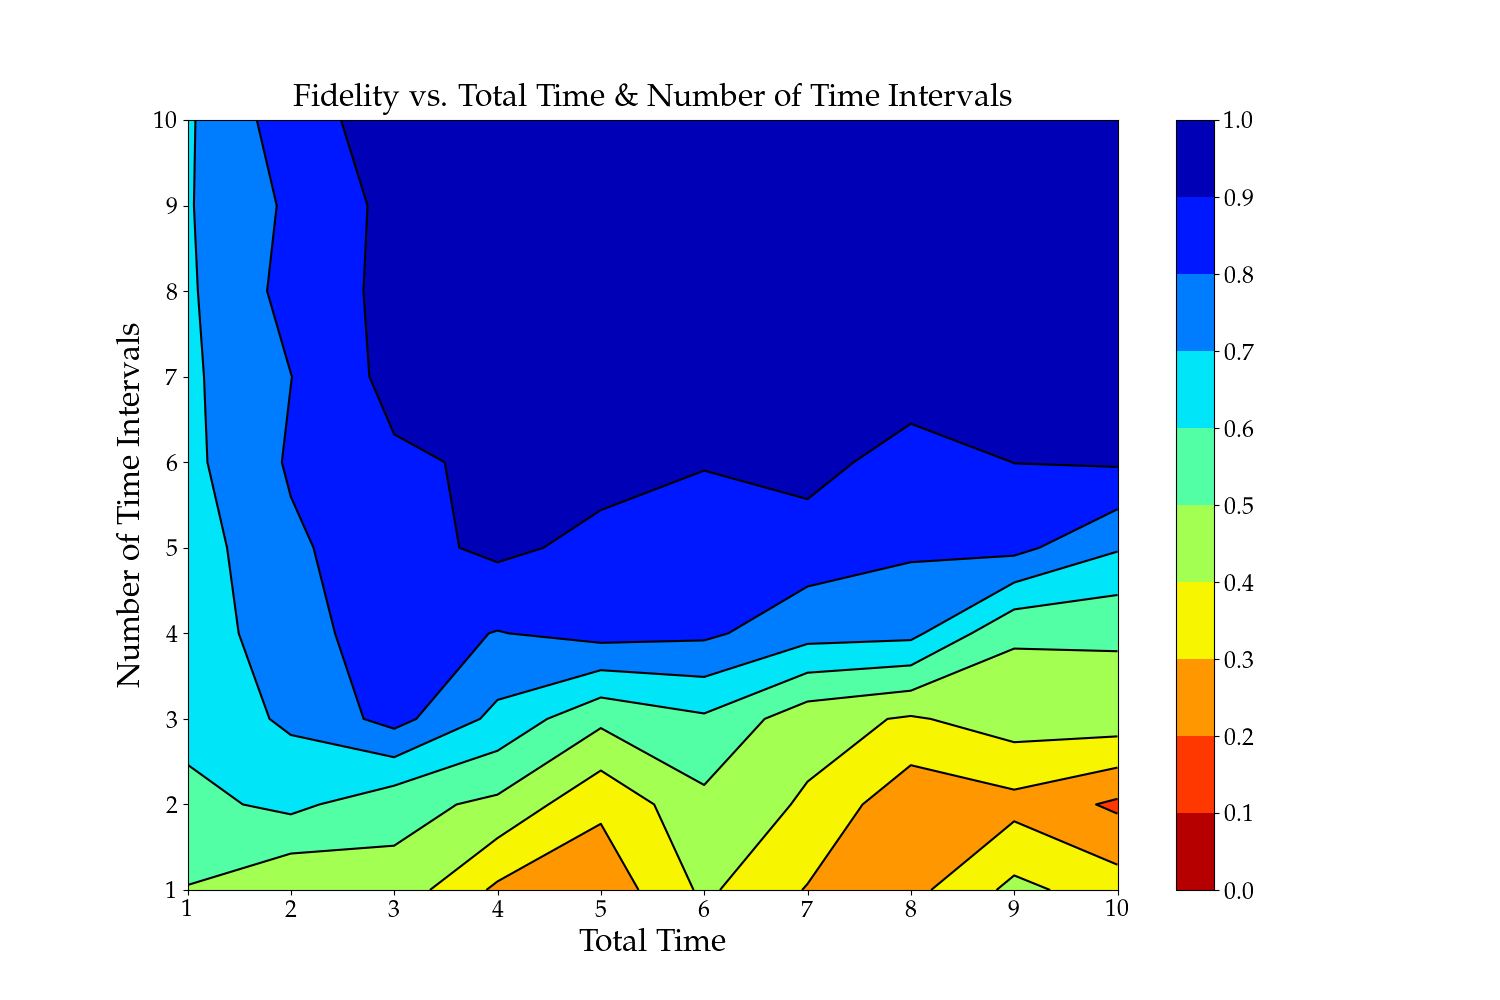
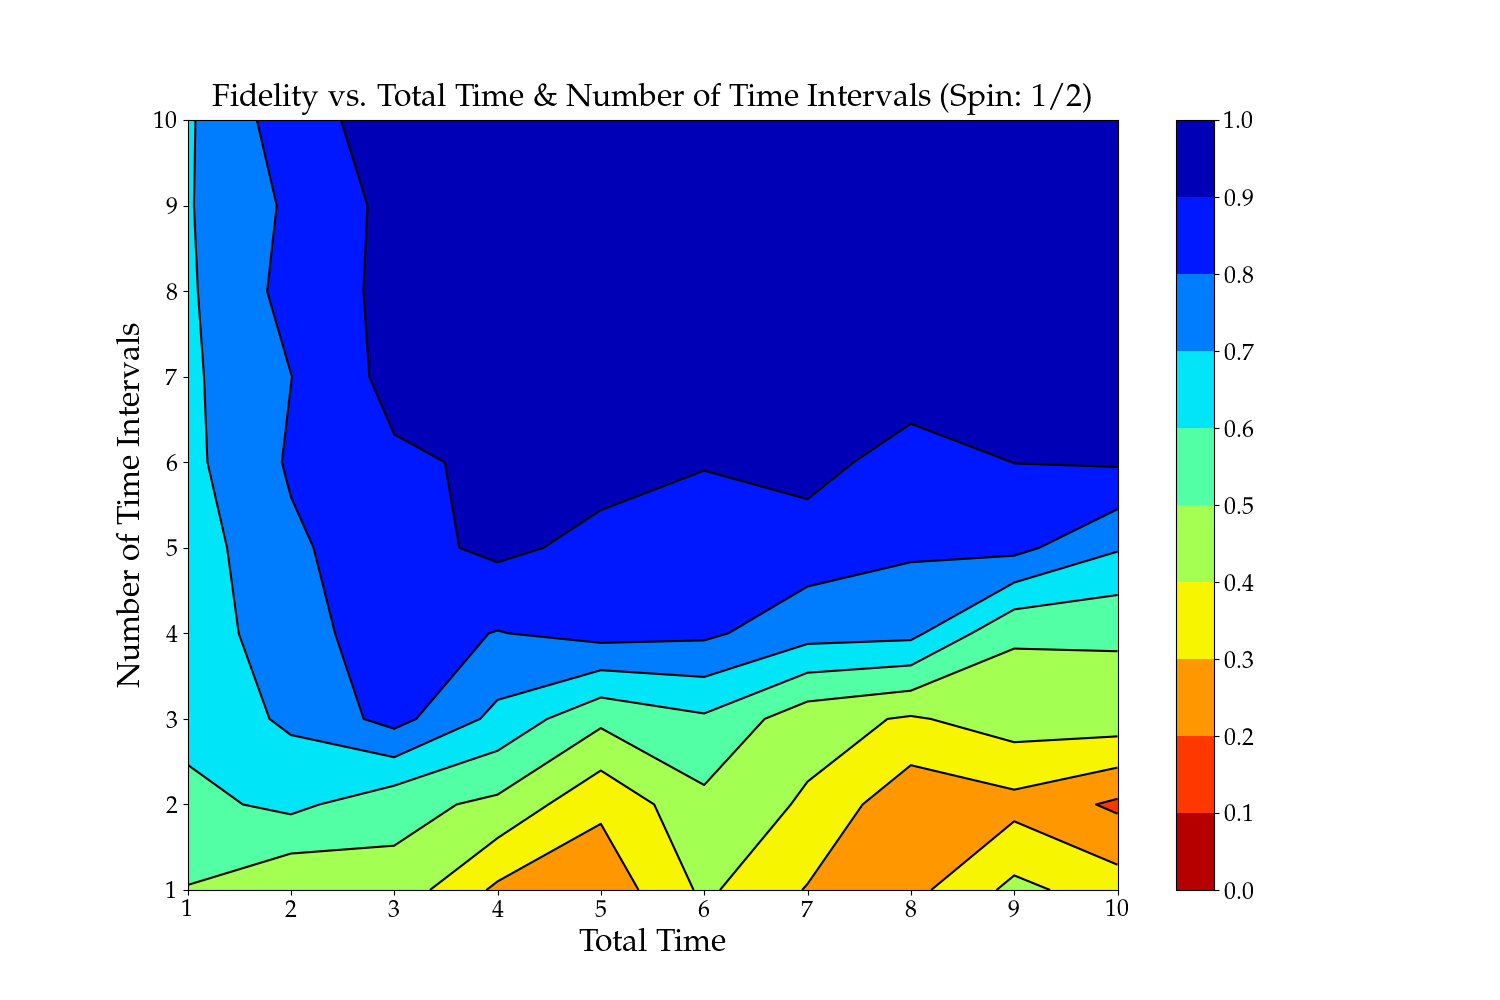
Add spin label to contour plot

Changed region(s): [[0.1533, 0.062, 0.6747, 0.124]]

diff --git a/graph_util/contour.py b/graph_util/contour.py
@@ -5,6 +5,7 @@ from pathlib import Path
 import pandas as pd
 import numpy as np
 import matplotlib.pyplot as plt
+from fractions import Fraction
 
 if __name__ == "__main__":
     #Parse system arguments
@@ -43,9 +44,10 @@ if __name__ == "__main__":
 
     #Create contour graph
     levels = np.arange(0, 1 + 0.1, 0.1)
+    spin   = Fraction((HILBERT_DIMENSION - 1) / 2)
 
     plt.figure(figsize=(15, 10), linewidth=2 * 1.15)
-    plt.title("Fidelity vs. Total Time \& Number of Time Intervals", fontsize=20 * 1.15, pad=10)
+    plt.title(f"Fidelity vs. Total Time \& Number of Time Intervals (Spin: {spin})", fontsize=20 * 1.15, pad=10)
     plt.contour(num_of_intervals_list, total_time_list, avg_fidelity_list, levels=levels, colors="k")
     plt.contourf(num_of_intervals_list, total_time_list, avg_fidelity_list, levels=levels, cmap=plt.cm.jet_r)
     color_bar = plt.colorbar(ticks=levels)
